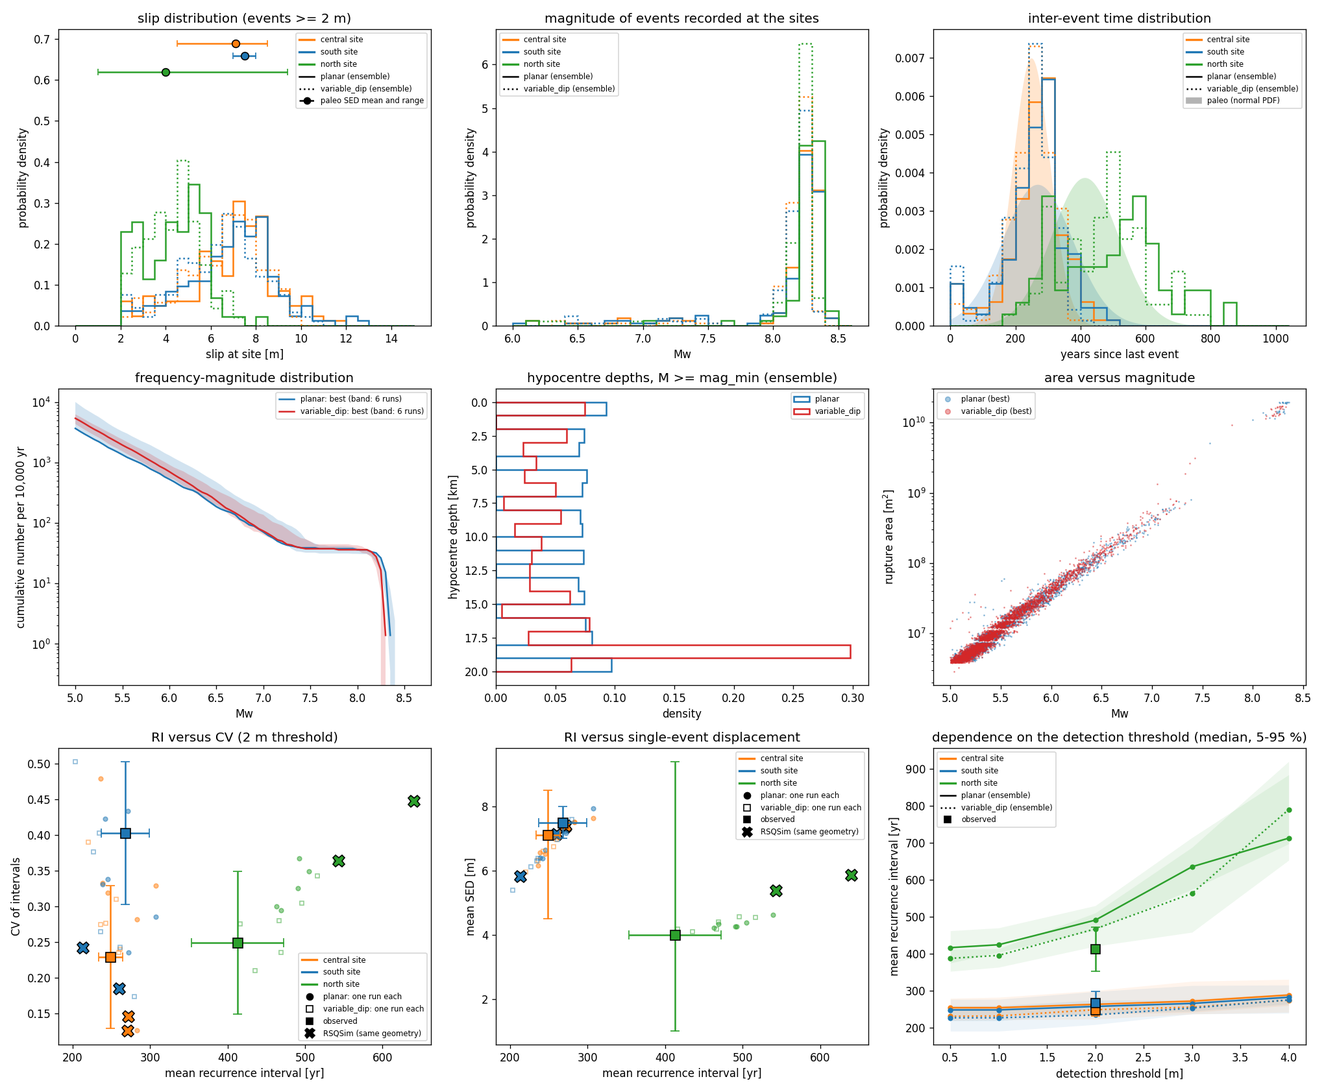
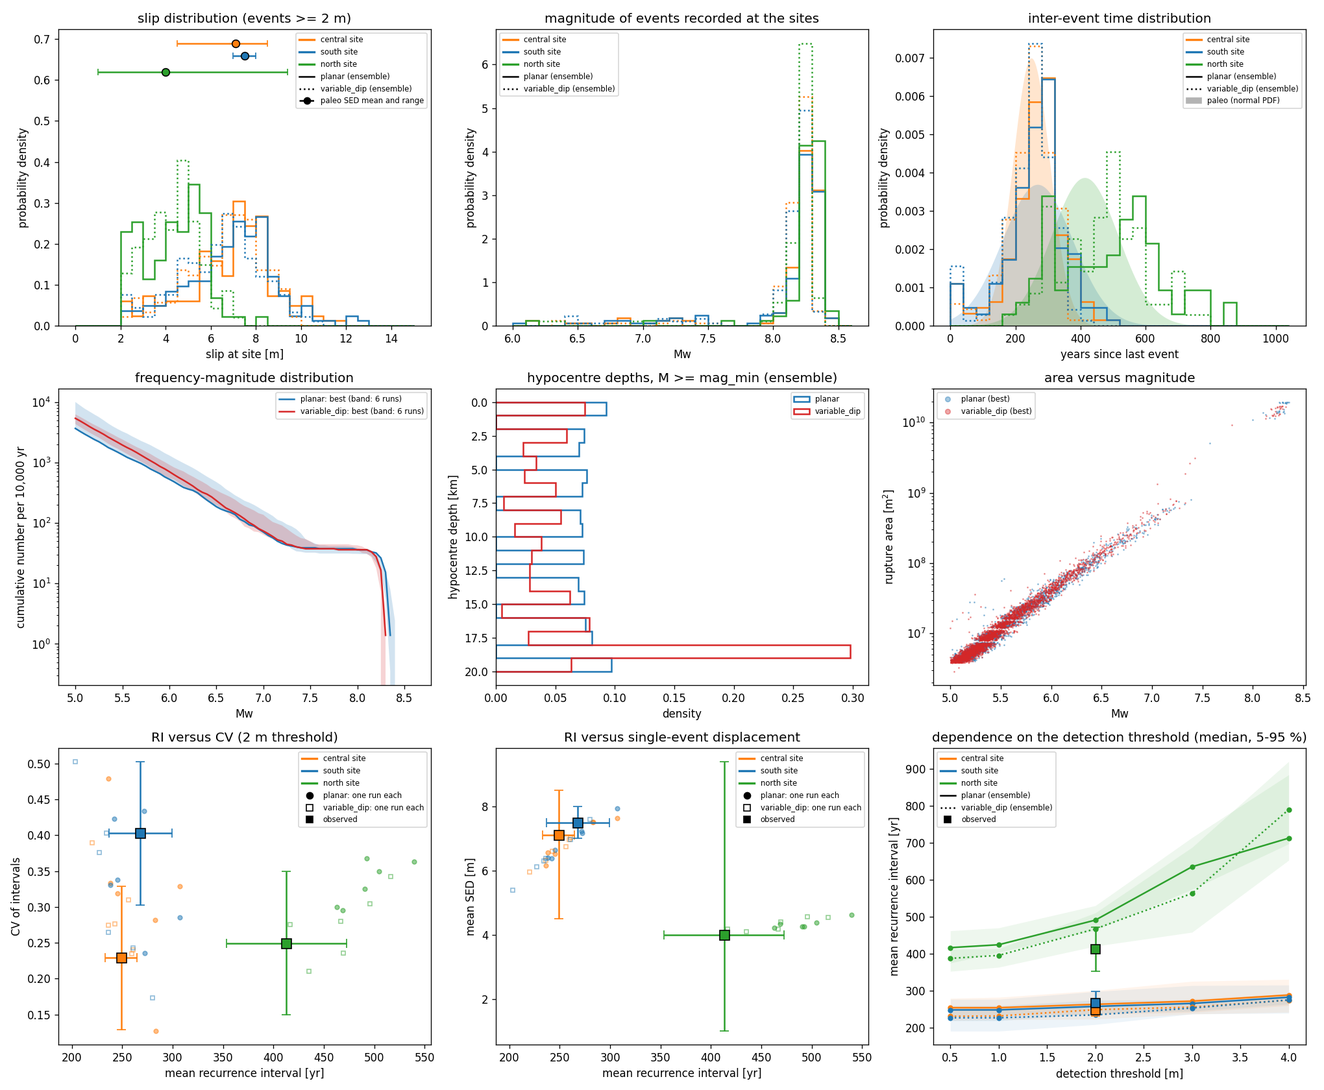
more comparisons

diff --git a/examples/alpine/site_analysis.py b/examples/alpine/site_analysis.py
@@ -1,12 +1,19 @@
-"""Site and system statistics for posterior ensembles, in the style of the
-RSQSim intercomparison slides and extended.
+"""Site and system statistics for posterior ensembles: the panels used to
+summarize physics-based simulators in the intercomparison, extended with
+ensemble ranges and further diagnostics.
 
     python3 examples/alpine/site_analysis.py out_prefix label1 dir1 [label2 dir2 ...] [--threshold 2]
+        [--reference table.csv name]
 
 Each dir holds the catalogs of a posterior sweep (design "list", files
-cat_vNNNN_sS.npz; vector 0000 is the best-fitting one). Labels that are or
-start with "planar" or "variable_dip" (e.g. planar_fine) get the RSQSim
-values of data/nz_alpine/rsqsim_summary.csv shown alongside.
+cat_vNNNN_sS.npz; vector 0000 is the best-fitting one).
+
+--reference adds site statistics of another model (for example a
+physics-based simulator) to the RI-CV and RI-SED panels and to the table.
+The CSV has columns geometry, site, ri_mean_yr, ri_sd_yr, slip_mean_m,
+slip_sd_m; a configuration label that is or starts with the geometry name
+(planar_fine for planar) is matched to it. Example:
+data/nz_alpine/rsqsim_summary.csv (RSQSim, planar and variable dip).
 
 Outputs
   <out_prefix>_spacetime.png   map of slip rate with the sites and a space-time plot of M >= 7
@@ -14,13 +21,13 @@ Outputs
                                for the best run, one row per geometry
   <out_prefix>_statistics.png  slip, magnitude and inter-event time distributions at the sites,
                                cumulative frequency-magnitude distribution, hypocentre depths,
-                               area versus Mw (as in the RSQSim summary), plus RI versus CV and SED
-                               for every run with observations and RSQSim values, and the
+                               area versus Mw, plus RI versus CV and SED for every run with the
+                               observations (and the reference model, if given), and the
                                dependence of the mean interval on the detection threshold
   <out_prefix>_extended.png    co-rupture of sites, time- and slip-predictability correlations,
                                interval distributions against the paleoseismic normal PDFs
   <out_prefix>_table.md / .csv per site: best model (pooled over its seeds), ensemble median and 5-95 percent range,
-                               observations, RSQSim
+                               observations, reference model (if given)
 Distributions labelled "ensemble" pool all posterior runs.
 """
 import csv
@@ -54,11 +61,16 @@ THRESHOLDS = [0.5, 1.0, 2.0, 3.0, 4.0]
 
 def parse_args(argv):
     th = 2.0
+    ref = None
     if "--threshold" in argv:
         k = argv.index("--threshold")
         th = float(argv[k + 1])
         argv = argv[:k] + argv[k + 2:]
-    return argv[1], list(zip(argv[2::2], argv[3::2])), th
+    if "--reference" in argv:
+        k = argv.index("--reference")
+        ref = (argv[k + 1], argv[k + 2])
+        argv = argv[:k] + argv[k + 3:]
+    return argv[1], list(zip(argv[2::2], argv[3::2])), th, ref
 
 
 def run_stats(path, sites, th):
@@ -122,17 +134,16 @@ def run_stats(path, sites, th):
 
 
 def rsqsim_for(rsq, label, site):
-    """RSQSim values for a label such as planar, planar_fine or variable_dip_coarse."""
+    """Reference-model values for a label such as planar, planar_fine or variable_dip_coarse."""
     for (geom, st), v in rsq.items():
         if st == site and (label == geom or label.startswith(geom + "_")):
             return v
     return None
 
 
-def load_rsqsim():
-    path = os.path.join(DATA, "rsqsim_summary.csv")
+def load_rsqsim(path):
     out = {}
-    if os.path.exists(path):
+    if path and os.path.exists(path):
         for r in csv.DictReader(open(path)):
             out[(r["geometry"], r["site"])] = {k: float(v) for k, v in r.items() if k not in ("geometry", "site")}
     return out
@@ -144,10 +155,11 @@ def pct(v, q):
 
 
 def main():
-    out_prefix, pairs, th = parse_args(sys.argv)
+    out_prefix, pairs, th, ref = parse_args(sys.argv)
     sites = load_sites(os.path.join(DATA, "paleo_sites.csv"))
     names = [s["name"] for s in sites]
-    rsq = load_rsqsim()
+    rsq = load_rsqsim(ref[0]) if ref else {}
+    ref_name = ref[1] if ref else ""
     G = {}
     for label, d in pairs:
         files = sorted(glob.glob(os.path.join(d, "cat_v*_s*.npz")))
@@ -272,7 +284,9 @@ def main():
     mk_h = [Line2D([], [], marker=["o", "s", "^"][i % 3], color="k", ls="", mfc="k" if i == 0 else "none",
                    label=f"{lab}: one run each") for i, lab in enumerate(G)]
     obs_h = [Line2D([], [], marker="s", color="k", ls="", label="observed"),
-             Line2D([], [], marker="X", color="k", ls="", ms=9, label="RSQSim (same geometry)")]
+             Line2D([], [], marker="X", color="k", ls="", ms=9, label=f"{ref_name} (same geometry)")]
+    if not rsq:
+        obs_h = obs_h[:1]
     axs[2, 0].legend(handles=site_h + mk_h + obs_h, fontsize=7)
     axs[2, 0].set(xlabel="mean recurrence interval [yr]", ylabel="CV of intervals", title=f"RI versus CV ({th:g} m threshold)")
     axs[2, 1].legend(handles=site_h + mk_h + obs_h, fontsize=7)
@@ -379,17 +393,27 @@ def main():
     with open(out_prefix + "_table.md", "w") as fh:
         fh.write(f"Detection threshold {th:g} m. Best: best-ranked vector, pooled over all its posterior seeds. "
                  "Ensemble: median [5-95 %] over all posterior runs.\n\n")
-        fh.write("| geometry | site | RI best (SD) | RI ensemble | RI obs (SD) | RI RSQSim (SD) | CV best | CV ensemble "
-                 "| CV obs | CV RSQSim | slip best (SD) | slip ensemble | slip obs | slip RSQSim (SD) |\n")
-        fh.write("|" + "---|" * 14 + "\n")
+        rn = ref_name or "reference"
+        cols = ["geometry", "site", "RI best (SD)", "RI ensemble", "RI obs (SD)"] + ([f"RI {rn} (SD)"] if rsq else []) \
+            + ["CV best", "CV ensemble", "CV obs"] + ([f"CV {rn}"] if rsq else []) \
+            + ["slip best (SD)", "slip ensemble", "slip obs"] + ([f"slip {rn} (SD)"] if rsq else [])
+        fh.write("| " + " | ".join(cols) + " |\n")
+        fh.write("|" + "---|" * len(cols) + "\n")
         for r in rows:
-            fh.write(f"| {r['geometry']} | {r['site']} | {r['ri_best']:.0f} ({r['ri_sd_best']:.0f}) | "
-                     f"{r['ri_ens_med']:.0f} [{r['ri_ens_lo']:.0f}-{r['ri_ens_hi']:.0f}] | "
-                     f"{r['ri_obs']:.0f} ({r['ri_sd_obs']:.0f}) | {r['ri_rsqsim']:.0f} ({r['ri_sd_rsqsim']:.0f}) | "
-                     f"{r['cv_best']:.2f} | {r['cv_ens_med']:.2f} [{r['cv_ens_lo']:.2f}-{r['cv_ens_hi']:.2f}] | "
-                     f"{r['cv_obs']:.2f} | {r['cv_rsqsim']:.2f} | {r['slip_best']:.1f} ({r['slip_sd_best']:.1f}) | "
-                     f"{r['slip_ens_med']:.1f} [{r['slip_ens_lo']:.1f}-{r['slip_ens_hi']:.1f}] | {r['slip_obs']:.1f} | "
-                     f"{r['slip_rsqsim']:.1f} ({r['slip_sd_rsqsim']:.1f}) |\n")
+            c = [r["geometry"], r["site"], f"{r['ri_best']:.0f} ({r['ri_sd_best']:.0f})",
+                 f"{r['ri_ens_med']:.0f} [{r['ri_ens_lo']:.0f}-{r['ri_ens_hi']:.0f}]",
+                 f"{r['ri_obs']:.0f} ({r['ri_sd_obs']:.0f})"]
+            if rsq:
+                c.append(f"{r['ri_rsqsim']:.0f} ({r['ri_sd_rsqsim']:.0f})")
+            c += [f"{r['cv_best']:.2f}", f"{r['cv_ens_med']:.2f} [{r['cv_ens_lo']:.2f}-{r['cv_ens_hi']:.2f}]",
+                  f"{r['cv_obs']:.2f}"]
+            if rsq:
+                c.append(f"{r['cv_rsqsim']:.2f}")
+            c += [f"{r['slip_best']:.1f} ({r['slip_sd_best']:.1f})",
+                  f"{r['slip_ens_med']:.1f} [{r['slip_ens_lo']:.1f}-{r['slip_ens_hi']:.1f}]", f"{r['slip_obs']:.1f}"]
+            if rsq:
+                c.append(f"{r['slip_rsqsim']:.1f} ({r['slip_sd_rsqsim']:.1f})")
+            fh.write("| " + " | ".join(c) + " |\n")
     print("wrote", ", ".join(out_prefix + x for x in ("_spacetime.png", "_statistics.png", "_extended.png",
                                                        "_table.md", "_table.csv")))
 

diff --git a/docs/alpine.md b/docs/alpine.md
@@ -577,31 +577,30 @@ the L1 correction (single seed, 5000 yr, 2 m threshold): RI / CV / SED
 The full campaign (`run_full_campaign.sh`, below) covers all three
 geometries.
 
-## Site analysis in the style of the RSQSim comparison
+## Site analysis (panels used in the intercomparison, extended)
 
 `examples/alpine/site_analysis.py out_prefix label dir [label dir ...]
-[--threshold 2]` reproduces the panels of the RSQSim summary for the
-intercomparison (planar and varying-dip geometries, 50,000 yr; RSQSim
-site values in `data/nz_alpine/rsqsim_summary.csv`) for a posterior
-ensemble, and extends them:
+[--threshold 2] [--reference table.csv name]` draws, for a posterior
+ensemble, the panels used to summarize simulators in the intercomparison
+(the RSQSim slides were the template), and extends them:
 
 * `_spacetime.png`: slip-rate map with the sites and a space-time plot of
   M >= 7 ruptures (along-strike extent in northing, hypocentre coloured by
   Mw) for the best run, one row per geometry.
-* `_statistics.png`: the RSQSim panels (slip, magnitude and inter-event
+* `_statistics.png`: the intercomparison panels (slip, magnitude and inter-event
   time distributions at the sites with the paleoseismic SED ranges and
   normal interval PDFs; cumulative frequency-magnitude distribution;
   hypocentre depths; rupture area versus Mw), computed over the whole
   ensemble with the best run and a 5 to 95 percent band where useful;
   plus RI versus CV and RI versus SED for every run with the observations
-  and the RSQSim values, and the mean interval as a function of the
+  and, if given, a reference model, and the mean interval as a function of the
   detection threshold (0.5 to 4 m).
 * `_extended.png`: co-rupture matrices, time- and slip-predictability
   correlations, and interval distributions against the paleoseismic
   normal CDFs.
 * `_table.md` / `_table.csv`: per geometry and site, mean and SD of the
   intervals, CV, mean and SD of SED for the best run, ensemble median and
-  5 to 95 percent range, observations, and RSQSim.
+  5 to 95 percent range, observations, and the reference model if given.
 
 The full campaign runs it after the posteriors. For posteriors already
 computed:
@@ -609,37 +608,8 @@ computed:
     python3 examples/alpine/site_analysis.py out/sites planar_fine out/posterior_planar_fine \
         variable_dip_fine out/posterior_variable_dip_fine --threshold 2
 
-Example output for a small test ensemble (round-4 best three vectors with
-the L1 correction, 2 seeds x 8000 yr per geometry) is in
-`docs/alpine_site_analysis_*_example.*`. These are not the campaign
-results, but the comparison with RSQSim already shows where the models
-differ:
-
-| | stochseis (test ensemble, median) | RSQSim | observed |
-|---|---|---|---|
-| central RI / CV / SED, planar | 264 / 0.32 / 7.0 | 271 / 0.13 / 7.3 | 249 / 0.23 / 7.1 |
-| south RI / CV / SED, planar | 258 / 0.33 / 6.9 | 260 / 0.19 / 7.1 | 268 / 0.40 / 7.5 |
-| north RI / CV / SED, planar | 492 / 0.34 / 4.3 | 640 / 0.45 / 5.8 | 413 / 0.25 / 4.0 |
-| central RI / CV / SED, variable dip | 250 / 0.28 / 6.7 | 272 / 0.15 / 7.4 | |
-| south RI / CV / SED, variable dip | 235 / 0.32 / 6.3 | 214 / 0.24 / 5.8 | |
-| north RI / CV / SED, variable dip | 468 / 0.28 / 4.3 | 543 / 0.36 / 5.4 | |
-
-* Both models match the mean interval and displacement at the south and
-  central sites. RSQSim is more periodic than the data (CV 0.13 to 0.24
-  against 0.23 and 0.40); the stochastic ensemble brackets the
-  observations.
-* At the north site both are too slow, RSQSim more so (543 to 640 yr and
-  5.4 to 5.8 m against 413 yr and 4.0 m; stochseis about 470 to 490 yr
-  and 4.3 m).
-* Size distribution: events recorded at the sites are almost all
-  through-going M8.1 to 8.4 ruptures in stochseis, against M7.5 to 8.2 in
-  RSQSim; the space-time plots show the same, a characteristic
-  population of fault-length ruptures in stochseis (the hybrid size rule)
-  and more partial M7.5 to 8 ruptures in RSQSim. Both frequency-magnitude
-  distributions depart from Gutenberg-Richter above about M7.
-* Hypocentres are spread over depth on the planar geometry in stochseis
-  but concentrate at the base of the fault on the variable-dip geometry;
-  RSQSim nucleates mostly between 13 and 20 km on both.
+Example output for a small test ensemble is in
+`docs/alpine_site_analysis_*_example.*` (not campaign results).
 
 ## Full campaign: three geometries at fine and two at coarse resolution
 
@@ -689,7 +659,8 @@ configurations; `campaign_summary.py`) and two kinds of figures:
   and mean slip versus rupture length. Best vector as line or large
   symbol, all posterior runs as band or small symbols, one colour per
   configuration;
-* the RSQSim-style site analysis (`site_analysis.py`, `sites_<set>_*`).
+* the site analysis with the intercomparison panels (`site_analysis.py`,
+  `sites_<set>_*`).
 
 Sets: the fine configurations (`fine`), the coarse ones (`coarse`), all
 five together (`all`, overview figures only), and fine against coarse for
@@ -749,29 +720,18 @@ Ensemble medians and 5 to 95 percent ranges over all posterior runs:
 | planar_coarse | 252 [218-291] / 0.37 [0.25-0.51] / 6.6 | 257 [226-295] / 0.39 [0.25-0.50] / 6.6 | 545 [422-657] / 0.37 / 4.7 |
 | variable_dip_coarse | 251 [224-276] / 0.41 [0.31-0.53] / 6.6 | 260 [230-309] / 0.40 [0.31-0.52] / 6.8 | 511 [413-642] / 0.39 / 4.7 |
 | observed | 268 / 0.40 / 7.5 | 249 / 0.23 / 7.1 | 413 / 0.25 / 4.0 |
-| RSQSim planar / variable dip | 260 / 0.19 / 7.1; 214 / 0.24 / 5.8 | 271 / 0.13 / 7.3; 272 / 0.15 / 7.4 | 640 / 0.45 / 5.8; 543 / 0.36 / 5.4 |
 
 1. Mean intervals at the south and central sites are matched in every
    configuration; single-event displacements are 0.4 to 0.9 m below the
    observed means, with the observations inside or at the upper edge of
    the 5 to 95 percent ranges.
 2. The south CV (0.40) is matched. The central CV (0.23) lies at or
-   below the 5th percentile of every ensemble (0.25 to 0.31), and the
-   ensemble medians (0.38 to 0.41) are close to the typical CV of the
-   model class found in rounds 4 and 5. For the top-ranked vector the
-   central CV changes from the ABC (three seeds) to its first posterior
-   run as 0.37 to 0.38 (planar fine), 0.41 to 0.44 (variable dip fine),
-   0.27 to 0.37 (segmented), 0.31 to 0.30 (planar coarse) and 0.41 to
-   0.37 (variable dip coarse). Only the segmented case shows a clear
-   increase, and single-run CVs carry about +-0.07, so selection bias
-   (ranking 100 vectors by short-run statistics favours lucky ones) is
-   plausible but not demonstrated by these numbers.
-   `campaign_summary.py` now rescores the posterior vectors with all
-   their posterior runs; those misfits are the ones to quote.
+   below the 5th percentile of every ensemble (0.25 to 0.31); the
+   ensemble medians (0.37 to 0.41) are the typical CV of this model
+   class.
 3. The north site is too slow in every configuration (medians 511 to 545
    yr against 413, with the observation at the 5th percentile), with a
-   mean SED of 4.7 to 4.9 m against 4.0 m. RSQSim has the same bias, more
-   strongly (543 to 640 yr, 5.4 to 5.8 m).
+   mean SED of 4.7 to 4.9 m against 4.0 m.
 4. Resolution: fine and coarse ensembles agree within about 10 yr in RI,
    0.02 in CV and 0.2 m in SED at every site, so site statistics are
    converged at 2 km patches.
@@ -782,18 +742,58 @@ Ensemble medians and 5 to 95 percent ranges over all posterior runs:
    the size distribution of system events are in the figures
    (`fig_*`, `sites_*_extended.png`), which are not summarized here.
 
-### Comparison with RSQSim
+### Rescoring of the posterior vectors
 
-At the south and central sites both models reproduce the mean intervals
-and displacements. RSQSim is more periodic (CV 0.13 to 0.24) than the
-stochastic ensembles (0.37 to 0.41): RSQSim matches the central record
-(0.23) better and the south record (0.40) worse. The stochastic model's
-single-event displacements are more variable at a site (SD 1.7 to 2.6 m
-for the best vectors against 1.0 to 1.6 m in RSQSim). At the north site
-both models are too slow with too much slip per event, RSQSim more so.
-A stochastic model calibrated to the paleoseismic records thus spans the
-range between the RSQSim regularity and the more irregular records, and
-the central and north records are the ones that discriminate.
+Each posterior vector was rescored with its own posterior runs (5 seeds
+x 20,000 yr instead of 3 x 10,000 yr; `campaign_summary.py`, rerun on 3
+November):
+
+| configuration | still accepted | best rescored misfit | its ABC rank | best: south RI / CV / SED | central | north | median CV (S, C, N) |
+|---|---|---|---|---|---|---|---|
+| planar_fine | 20 of 20 | 0.80 | 1 | 266 / 0.40 / 7.0 | 274 / 0.37 / 7.2 | 497 / 0.35 / 4.5 | 0.38, 0.37, 0.39 |
+| variable_dip_fine | 20 of 20 | 0.69 | 2 | 253 / 0.33 / 6.8 | 257 / 0.32 / 6.8 | 471 / 0.31 / 4.1 | 0.41, 0.40, 0.37 |
+| segmented_fine | 20 of 20 | 0.60 | 1 | 250 / 0.33 / 6.7 | 252 / 0.34 / 6.7 | 421 / 0.30 / 3.9 | 0.41, 0.39, 0.40 |
+| planar_coarse | 20 of 20 | 0.85 | 2 | 281 / 0.40 / 7.4 | 284 / 0.41 / 7.5 | 502 / 0.37 / 4.3 | 0.40, 0.39, 0.37 |
+| variable_dip_coarse | 20 of 20 | 0.41 | 2 | 260 / 0.33 / 7.0 | 261 / 0.32 / 6.9 | 430 / 0.35 / 3.9 | 0.41, 0.41, 0.39 |
+
+All posterior vectors remain accepted and the best rescored vector was
+ranked first or second by the ABC, so the ranking is robust to the
+longer runs. Individual statistics of the top vectors regress somewhat
+toward the class typical values (segmented: central CV 0.27 in the ABC,
+0.34 rescored), which is the expected effect of selecting from noisy
+estimates, but it does not change acceptance. The best rescored vectors
+reach central CVs of 0.32 to 0.34 and north intervals of 421 to 430 yr,
+so the observed records are within reach of individual parameter
+vectors, while the ensembles centre on CV 0.4 and north intervals of
+510 to 545 yr.
+
+### The calibrated baseline as a reference for physics-based models
+
+The product for the intercomparison is the envelope of the calibrated
+stochastic model: what a model with no fault mechanics beyond the slip
+budget, deficit-capped slip, hybrid sizes and clustering produces once
+it is tuned to the paleoseismic records. Union of the 5 to 95 percent
+ranges of all five posterior ensembles (2 m threshold; median of the
+configuration medians in front):
+
+| site | RI [yr] | CV | SED [m] | observed |
+|---|---|---|---|---|
+| south | 254 [216-292] | 0.40 [0.25-0.54] | 6.6 [5.6-7.7] | 268 / 0.40 / 7.5 |
+| central | 260 [226-314] | 0.39 [0.25-0.53] | 6.7 [5.7-8.1] | 249 / 0.23 / 7.1 |
+| north | 543 [413-683] | 0.38 [0.26-0.57] | 4.7 [3.7-6.0] | 413 / 0.25 / 4.0 |
+
+A physics-based simulator that falls inside this envelope at the sites
+is not distinguished from the stochastic baseline by these observables;
+the comparison then has to rest on the event statistics (frequency-
+magnitude distribution, aftershock and Bath statistics, moment release,
+co-rupture, rupture lengths, hypocentre depths), for which the posterior
+ensembles give the same kind of envelope in `fig_*` and `sites_*`.
+Outside the envelope, the observables that carry most information are
+the central-site regularity and the north-site recurrence, the two that
+the stochastic baseline matches only at the edge of its range.
+`site_analysis.py --reference table.csv name` overlays any model's site
+statistics (RSQSim's slides are one example, in
+`data/nz_alpine/rsqsim_summary.csv`).
 
 ## Status (1 November 2026)
 

diff --git a/docs/alpine_site_analysis_table_example.md b/docs/alpine_site_analysis_table_example.md
@@ -1,10 +1,10 @@
-Detection threshold 2 m. Best: best-fitting vector, first seed. Ensemble: median [5-95 %] over all posterior runs.
+Detection threshold 2 m. Best: best-ranked vector, pooled over all its posterior seeds. Ensemble: median [5-95 %] over all posterior runs.
 
-| geometry | site | RI best (SD) | RI ensemble | RI obs (SD) | RI RSQSim (SD) | CV best | CV ensemble | CV obs | CV RSQSim | slip best (SD) | slip ensemble | slip obs | slip RSQSim (SD) |
-|---|---|---|---|---|---|---|---|---|---|---|---|---|---|
-| planar | central | 245 (78) | 264 [237-301] | 249 (57) | 271 (34) | 0.32 | 0.32 [0.17-0.44] | 0.23 | 0.13 | 6.5 (1.8) | 7.0 [6.2-7.6] | 7.1 | 7.3 (1.0) |
-| planar | south | 245 (83) | 258 [239-299] | 268 (108) | 260 (48) | 0.34 | 0.33 [0.25-0.43] | 0.40 | 0.19 | 6.6 (1.7) | 6.9 [6.4-7.8] | 7.5 | 7.1 (1.5) |
-| planar | north | 491 (160) | 492 [464-531] | 413 (103) | 640 (286) | 0.33 | 0.34 [0.30-0.37] | 0.25 | 0.45 | 4.3 (1.3) | 4.3 [4.2-4.6] | 4.0 | 5.8 (2.2) |
-| variable_dip | central | 259 (61) | 250 [224-261] | 249 (57) | 272 (40) | 0.24 | 0.28 [0.24-0.37] | 0.23 | 0.15 | 7.0 (1.7) | 6.7 [6.0-7.0] | 7.1 | 7.4 (1.2) |
-| variable_dip | south | 280 (49) | 235 [209-275] | 268 (108) | 214 (52) | 0.17 | 0.32 [0.19-0.48] | 0.40 | 0.24 | 7.6 (1.6) | 6.3 [5.6-7.4] | 7.5 | 5.8 (1.6) |
-| variable_dip | north | 467 (130) | 468 [421-511] | 413 (103) | 543 (197) | 0.28 | 0.28 [0.22-0.33] | 0.25 | 0.36 | 4.2 (1.3) | 4.3 [4.1-4.6] | 4.0 | 5.4 (1.8) |
+| geometry | site | RI best (SD) | RI ensemble | RI obs (SD) | CV best | CV ensemble | CV obs | slip best (SD) | slip ensemble | slip obs |
+|---|---|---|---|---|---|---|---|---|---|---|
+| planar | central | 242 (78) | 264 [237-301] | 249 (57) | 0.32 | 0.32 [0.17-0.44] | 0.23 | 6.5 (1.8) | 7.0 [6.2-7.6] | 7.1 |
+| planar | south | 242 (80) | 258 [239-299] | 268 (108) | 0.33 | 0.33 [0.25-0.43] | 0.40 | 6.5 (1.8) | 6.9 [6.4-7.8] | 7.5 |
+| planar | north | 492 (167) | 492 [464-531] | 413 (103) | 0.34 | 0.34 [0.30-0.37] | 0.25 | 4.3 (1.3) | 4.3 [4.2-4.6] | 4.0 |
+| variable_dip | central | 251 (64) | 250 [224-261] | 249 (57) | 0.26 | 0.28 [0.24-0.37] | 0.23 | 6.8 (1.7) | 6.7 [6.0-7.0] | 7.1 |
+| variable_dip | south | 256 (79) | 235 [209-275] | 268 (108) | 0.31 | 0.32 [0.19-0.48] | 0.40 | 6.9 (1.9) | 6.3 [5.6-7.4] | 7.5 |
+| variable_dip | north | 451 (112) | 468 [421-511] | 413 (103) | 0.25 | 0.28 [0.22-0.33] | 0.25 | 4.1 (1.2) | 4.3 [4.1-4.6] | 4.0 |

diff --git a/runs/alpine_full_campaign/campaign_summary.md b/runs/alpine_full_campaign/campaign_summary.md
@@ -22,6 +22,18 @@
 | slip_cv | 0.336 [0.117-0.495] | 0.326 [0.117-0.495] | 0.319 [0.117-0.495] | 0.339 [0.117-0.495] | 0.32 [0.117-0.495] |
 | hazard_max_area_km2 | 1.08e+03 [308-2.82e+03] | 1.08e+03 [302-2.92e+03] | 1.11e+03 [302-2.92e+03] | 1.08e+03 [308-2.82e+03] | 1.14e+03 [302-2.92e+03] |
 
+## Posterior vectors rescored with their posterior runs (paleo + seismicity, 2 m)
+
+ABC misfit: from the ABC runs; posterior misfit: from the posterior runs of the same vector.
+
+| configuration | vectors | still accepted | best posterior misfit | its ABC rank | best: south RI / CV / SED | central | north | b | Bath | median site CV (south, central, north) |
+|---|---|---|---|---|---|---|---|---|---|---|
+| planar_fine | 20 | 20 | 0.80 | 1 | 266 / 0.40 / 7.0 | 274 / 0.37 / 7.2 | 497 / 0.35 / 4.5 | 0.96 | 1.38 | 0.38, 0.37, 0.39 |
+| variable_dip_fine | 20 | 20 | 0.69 | 2 | 253 / 0.33 / 6.8 | 257 / 0.32 / 6.8 | 471 / 0.31 / 4.1 | 1.08 | 1.44 | 0.41, 0.40, 0.37 |
+| segmented_fine | 20 | 20 | 0.60 | 1 | 250 / 0.33 / 6.7 | 252 / 0.34 / 6.7 | 421 / 0.30 / 3.9 | 1.07 | 1.43 | 0.41, 0.39, 0.40 |
+| planar_coarse | 20 | 20 | 0.85 | 2 | 281 / 0.40 / 7.4 | 284 / 0.41 / 7.5 | 502 / 0.37 / 4.3 | 1.02 | 1.21 | 0.40, 0.39, 0.37 |
+| variable_dip_coarse | 20 | 20 | 0.41 | 2 | 260 / 0.33 / 7.0 | 261 / 0.32 / 6.9 | 430 / 0.35 / 3.9 | 1.10 | 1.29 | 0.41, 0.41, 0.39 |
+
 ## Overlap of accepted vectors (paleo + seismicity): number accepted in both
 
 | | planar_fine | variable_dip_fine | segmented_fine | planar_coarse | variable_dip_coarse |

diff --git a/HANDOFF.md b/HANDOFF.md
@@ -183,8 +183,11 @@ vectors accepted in every configuration with strong overlap; accepted
 parameters close to the round-5 priors; south and central means matched,
 central CV and north RI biased high in all ensembles (RSQSim has the
 north bias too); site statistics converged at 2 km and insensitive to
-geometry. ABC best fits may be optimistic (selection bias, not yet
-demonstrated): quote the posterior rescoring (campaign_summary.py).
+geometry. Posterior rescoring: all 20 posterior vectors stay accepted in
+every configuration and the best was ranked 1 or 2 by the ABC. The
+product for the intercomparison is the calibrated envelope (docs/alpine.md);
+physics models are compared against it, RSQSim being one example
+(site_analysis.py --reference).
 The paragraph below describes the starting point.
 
 See docs/alpine.md and docs/networks.md. STL geometries load as section

diff --git a/data/nz_alpine/README.md b/data/nz_alpine/README.md
@@ -29,4 +29,6 @@ Inputs for the New Zealand Alpine Fault simulator intercomparison
 * `rsqsim_summary.csv`: site statistics of the RSQSim simulations of the
   same exercise (planar and varying-dip geometries, 50,000 yr), transcribed
   from the slides "RSqsim_results.pdf" provided by the organisers (sites 1
-  to 3 = south, central, north), for comparison only.
+  to 3 = south, central, north). An example of a reference table for
+  `examples/alpine/site_analysis.py --reference`; other models' results
+  can be added in the same format.
